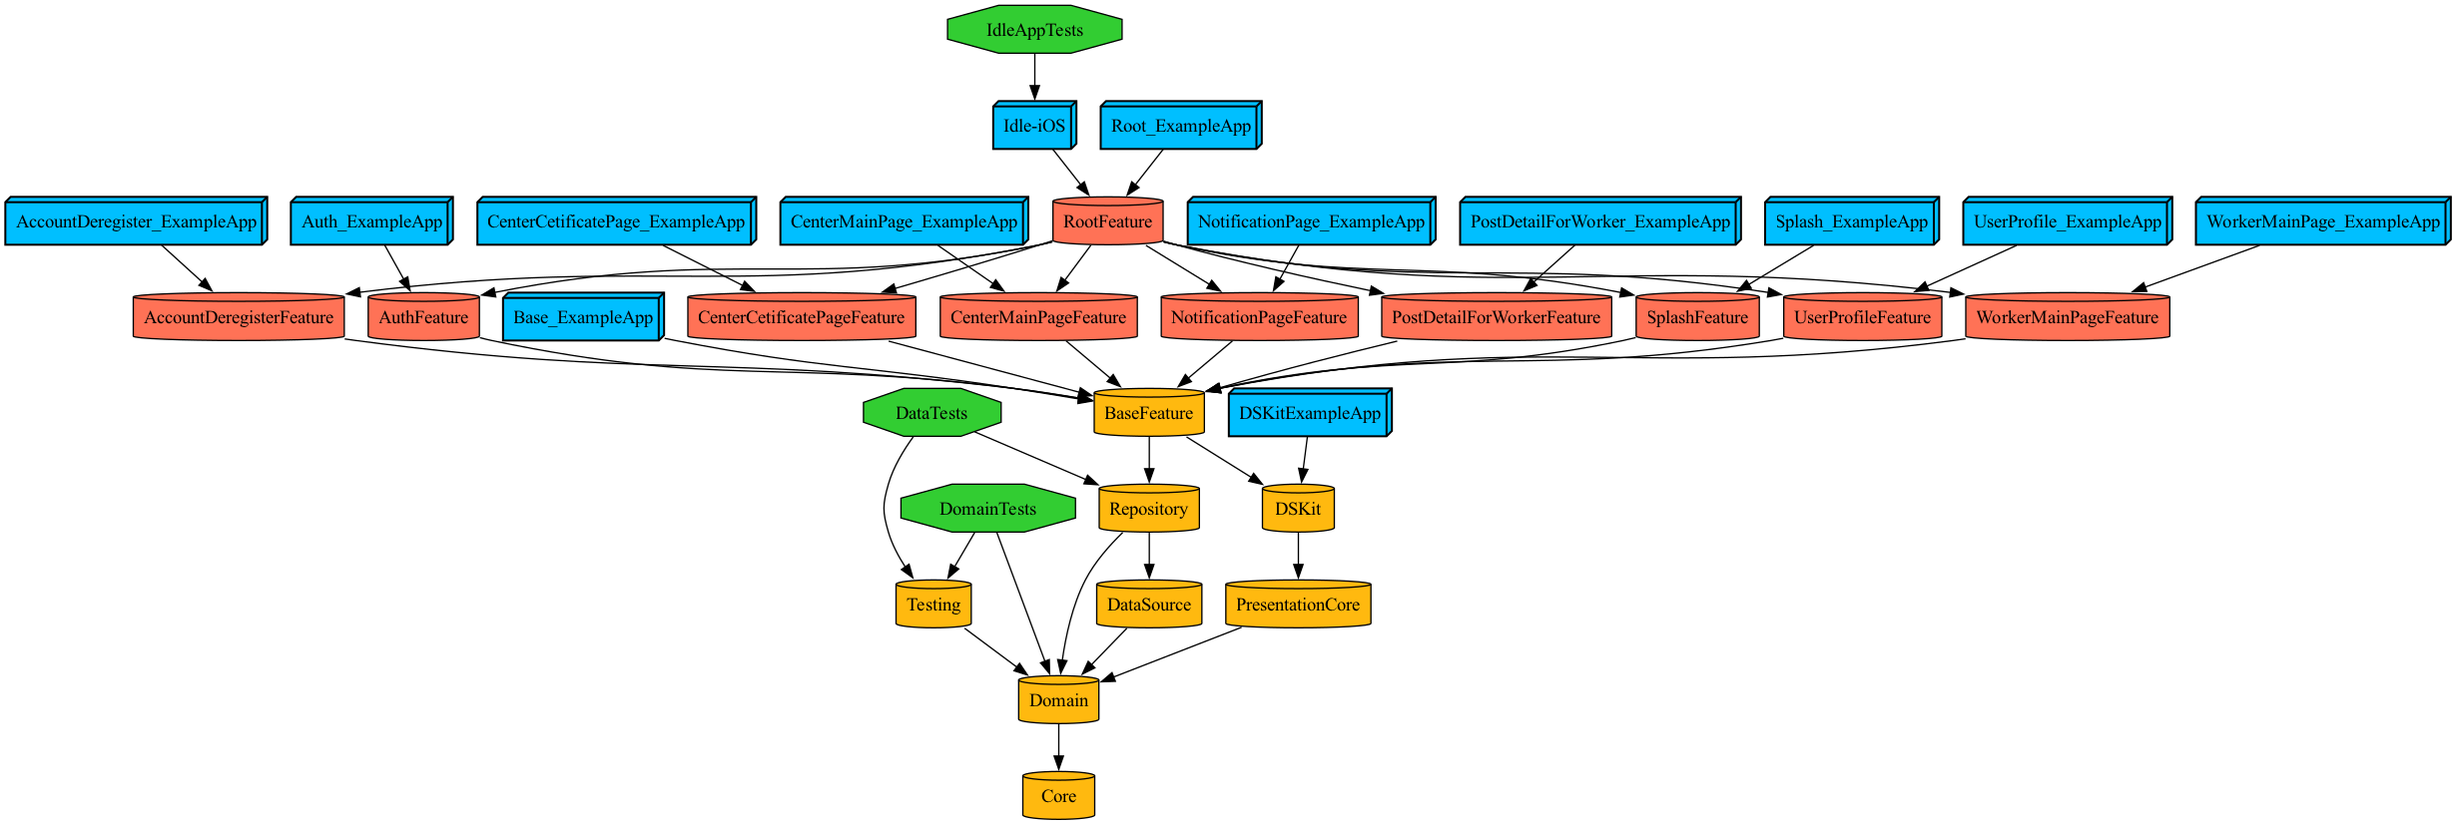
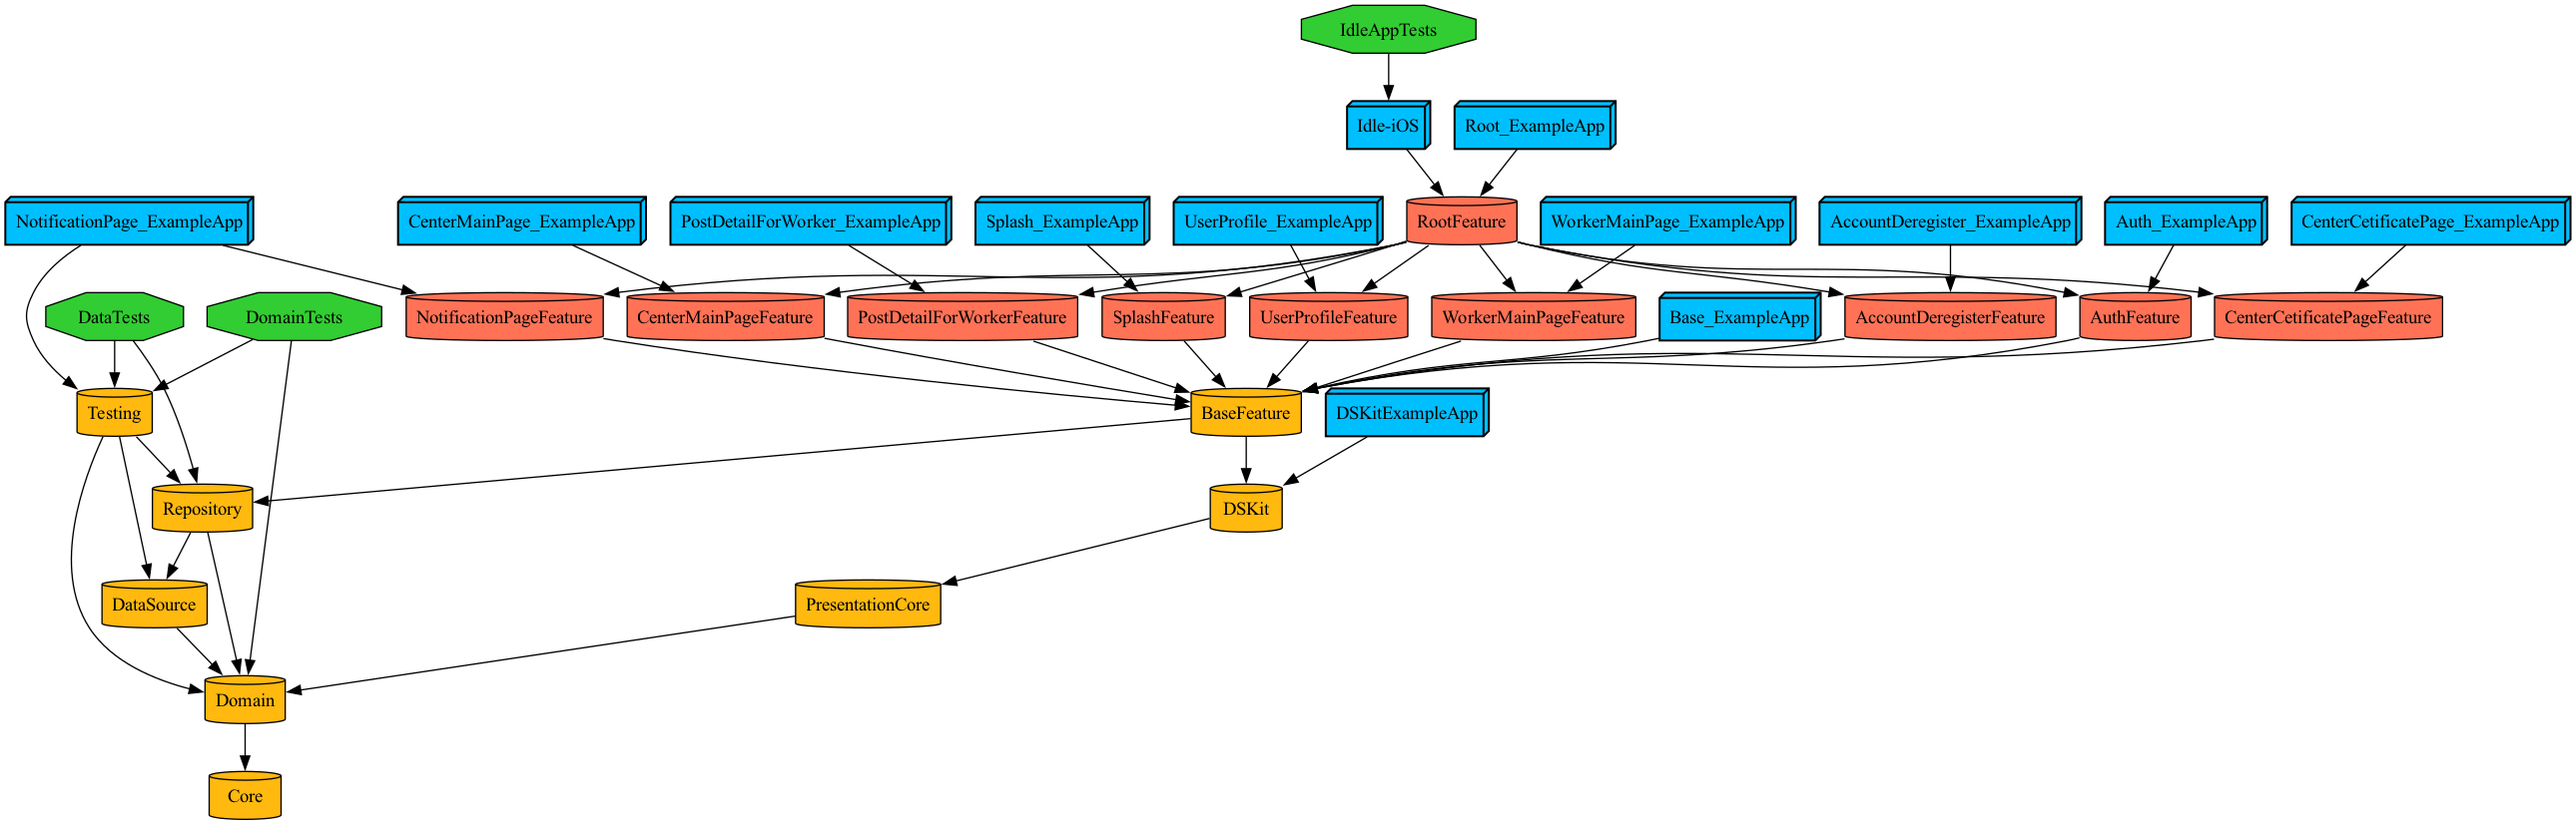
[IDLE-449]  ExampleApp에서 테스트 및 레이아웃 수정
Example앱에서 Testing모듈 사용

diff --git a/project/Projects/Presentation/Feature/NotificationPage/Sources/NotificationPageModule/NotificationPageVC.swift b/project/Projects/Presentation/Feature/NotificationPage/Sources/NotificationPageModule/NotificationPageVC.swift
@@ -62,6 +62,15 @@ class NotificationPageVC: BaseViewController {
         let bar: IdleNavigationBar = .init(titleText: "알림")
         return bar
     }()
+    
+    let emptyView: EmptyNotificationPageView = {
+        let view: EmptyNotificationPageView = .init(
+            titleText: "아직 받은 알림이 없어요.",
+            descriptionText: "최근 30 이내의 알림만 확인할 수 있어요."
+        )
+        view.isHidden = true
+        return view
+    }()
 
     var tableViewDataSource: UITableViewDiffableDataSource<Int, String>!
     let tableView: UITableView = {
@@ -124,8 +133,10 @@ class NotificationPageVC: BaseViewController {
     
     private func setLayout() {
         [
+            // zindex순서
+            tableView,
+            emptyView,
             navigationBar,
-            tableView
         ].forEach {
             $0.translatesAutoresizingMaskIntoConstraints = false
             view.addSubview($0)
@@ -133,13 +144,18 @@ class NotificationPageVC: BaseViewController {
         
         NSLayoutConstraint.activate([
             navigationBar.topAnchor.constraint(equalTo: view.safeAreaLayoutGuide.topAnchor),
-            navigationBar.leftAnchor.constraint(equalTo: view.safeAreaLayoutGuide.leftAnchor),
-            navigationBar.rightAnchor.constraint(equalTo: view.safeAreaLayoutGuide.rightAnchor),
+            navigationBar.leadingAnchor.constraint(equalTo: view.safeAreaLayoutGuide.leadingAnchor),
+            navigationBar.trailingAnchor.constraint(equalTo: view.safeAreaLayoutGuide.trailingAnchor),
             
             tableView.topAnchor.constraint(equalTo: navigationBar.bottomAnchor),
-            tableView.leftAnchor.constraint(equalTo: view.safeAreaLayoutGuide.leftAnchor),
-            tableView.rightAnchor.constraint(equalTo: view.safeAreaLayoutGuide.rightAnchor),
+            tableView.leadingAnchor.constraint(equalTo: view.safeAreaLayoutGuide.leadingAnchor),
+            tableView.trailingAnchor.constraint(equalTo: view.safeAreaLayoutGuide.trailingAnchor),
             tableView.bottomAnchor.constraint(equalTo: view.bottomAnchor),
+            
+            emptyView.topAnchor.constraint(equalTo: view.safeAreaLayoutGuide.topAnchor),
+            emptyView.leadingAnchor.constraint(equalTo: view.safeAreaLayoutGuide.leadingAnchor),
+            emptyView.trailingAnchor.constraint(equalTo: view.safeAreaLayoutGuide.trailingAnchor),
+            emptyView.bottomAnchor.constraint(equalTo: view.safeAreaLayoutGuide.bottomAnchor),
         ])
     }
     
@@ -166,6 +182,9 @@ class NotificationPageVC: BaseViewController {
             .drive(onNext: { [weak self] (isFirst, tableData) in
                 
                 guard let self else { return }
+                
+                // 전달된 알림이 없는 경우
+                emptyView.isHidden = tableData.count != 0
                 
                 self.tableData = tableData
             

diff --git a/project/Projects/Presentation/Feature/NotificationPage/Sources/NotificationPageModule/View/EmptyNotificationPageView.swift b/project/Projects/Presentation/Feature/NotificationPage/Sources/NotificationPageModule/View/EmptyNotificationPageView.swift
@@ -1,0 +1,74 @@
+//
+//  EmptyNotificationPageView.swift
+//  NotificationPageFeature
+//
+//  Created by choijunios on 10/21/24.
+//
+
+import UIKit
+
+import BaseFeature
+import DSKit
+
+
+import RxSwift
+
+class EmptyNotificationPageView: UIView {
+    
+    // Init
+    
+    // View
+    let titleLabel: IdleLabel = {
+        let view: IdleLabel = .init(typography: .Heading2)
+        return view
+    }()
+    let descriptionLabel: IdleLabel = {
+        let view: IdleLabel = .init(typography: .Body3)
+        view.attrTextColor = DSColor.gray300.color
+        return view
+    }()
+    
+    // Observable
+    private let disposeBag = DisposeBag()
+    
+    public init(
+        titleText: String,
+        descriptionText: String
+    ) {
+        super.init(frame: .zero)
+        
+        self.titleLabel.textString = titleText
+        self.descriptionLabel.textString = descriptionText
+        
+        setAppearance()
+        setLayout()
+        setObservable()
+    }
+    
+    public required init?(coder: NSCoder) { fatalError() }
+    
+    private func setAppearance() {
+        self.backgroundColor = DSColor.gray0.color
+    }
+    
+    private func setLayout() {
+        
+        let labelStack: DSKit.VStack = .init(
+            [titleLabel, descriptionLabel],
+            spacing: 8,
+            alignment: .center
+        )
+        
+        self.addSubview(labelStack)
+        labelStack.translatesAutoresizingMaskIntoConstraints = false
+        
+        NSLayoutConstraint.activate([
+            labelStack.centerXAnchor.constraint(equalTo: self.centerXAnchor),
+            labelStack.centerYAnchor.constraint(equalTo: self.centerYAnchor),
+        ])
+    }
+    
+    private func setObservable() {
+        
+    }
+}

diff --git a/project/Projects/Presentation/Feature/NotificationPage/ExampleApp/Sources/SceneDelegate.swift b/project/Projects/Presentation/Feature/NotificationPage/ExampleApp/Sources/SceneDelegate.swift
@@ -6,12 +6,15 @@
 //
 
 import UIKit
+
 import NotificationPageFeature
+import BaseFeature
 import PresentationCore
 import Domain
 import Repository
 import Core
 
+import Testing
 
 import Swinject
 import RxSwift
@@ -20,13 +23,25 @@ class SceneDelegate: UIResponder, UIWindowSceneDelegate {
     
     var window: UIWindow?
     
+    var router: RouterProtocol?
+    
+    var coordinator: NotificationPageCoordinator?
+    
     func scene(_ scene: UIScene, willConnectTo session: UISceneSession, options connectionOptions: UIScene.ConnectionOptions) {
         
         guard let windowScene = scene as? UIWindowScene else { return }
         
+        DependencyInjector.shared.assemble(MockAssemblies)
+        
+        self.router = DependencyInjector.shared.resolve(RouterProtocol.self)
+        
+        coordinator = .init()
         
         window = UIWindow(windowScene: windowScene)
         window?.makeKeyAndVisible()
+        
+        router?.setRootModuleTo(module: UIViewController(), popCompletion: nil)
+        coordinator?.start()
     }
 }
 

diff --git a/project/Projects/Testing/Sources/MockAssemblies.swift b/project/Projects/Testing/Sources/MockAssemblies.swift
@@ -6,15 +6,18 @@
 //
 
 import Foundation
-import Domain
+
+import BaseFeature
 import DataSource
+import Domain
 
 
 import Swinject
 
-let MockAssemblies: [Assembly] = [
+public let MockAssemblies: [Assembly] = [
     MockDataAssembly(),
     MockDomainAssembly(),
+    ServiceAssembly()
 ]
 
 // MARK: Domain Assembly
@@ -40,5 +43,21 @@ struct MockDataAssembly: Assembly {
         container.register(LocalStorageService.self) { _ in
             MockLocalStorageService()
         }
+        
+        container.register(NotificationsRepository.self) { _ in
+            MockNotificationsRepository()
+        }
+    }
+}
+
+// MARK: Service Assembly
+
+struct ServiceAssembly: Assembly {
+    
+    func assemble(container: Container) {
+        container.register(RouterProtocol.self) { _ in
+            Router()
+        }
+        .inObjectScope(.container)
     }
 }

diff --git a/project/Projects/Testing/Sources/Data/MockNotificationsRepository.swift b/project/Projects/Testing/Sources/Data/MockNotificationsRepository.swift
@@ -1,0 +1,26 @@
+//
+//  MockNotificationsRepository.swift
+//  Testing
+//
+//  Created by choijunios on 10/21/24.
+//
+
+import Foundation
+
+import Domain
+import Core
+
+class MockNotificationsRepository: NotificationsRepository {
+    
+    func readNotification(id: String) -> Sult<Void, Domain.DomainError> {
+        .just(.success(()))
+    }
+    
+    func unreadNotificationCount() -> Sult<Int, Domain.DomainError> {
+        .just(.success(1))
+    }
+    
+    func notifcationList() -> Sult<[Domain.NotificationVO], Domain.DomainError> {
+        .just(.success([]))
+    }
+}

diff --git a/project/Projects/Presentation/Feature/NotificationPage/Project.swift b/project/Projects/Presentation/Feature/NotificationPage/Project.swift
@@ -47,6 +47,7 @@ let project = Project(
             resources: ["ExampleApp/Resources/**"],
             dependencies: [
                 .target(name: "NotificationPageFeature"),
+                D.Testing,
             ],
             settings: .settings(
                 configurations: IdleConfiguration.presentationConfigurations

diff --git a/project/Projects/Testing/Project.swift b/project/Projects/Testing/Project.swift
@@ -28,6 +28,8 @@ let project = Project(
                 D.Domain,
                 D.Data.DataSource,
                 D.Data.Repository,
+                
+                D.Presentation.BaseFeature,
             ],
             settings: .settings(
                 base: ["ENABLE_TESTABILITY": "YES"],

diff --git a/project/Projects/Presentation/Feature/NotificationPage/ExampleApp/Sources/AppDelegate.swift b/project/Projects/Presentation/Feature/NotificationPage/ExampleApp/Sources/AppDelegate.swift
@@ -7,6 +7,9 @@
 
 import UIKit
 
+import Testing
+import Core
+
 @main
 class AppDelegate: UIResponder, UIApplicationDelegate {
 

diff --git a/project/Projects/Presentation/Feature/NotificationPage/ExampleApp/Sources/ViewController.swift b/project/Projects/Presentation/Feature/NotificationPage/ExampleApp/Sources/ViewController.swift
@@ -6,6 +6,7 @@
 //
 
 import UIKit
+import BaseFeature
 
 class ViewController: UIViewController {
     
